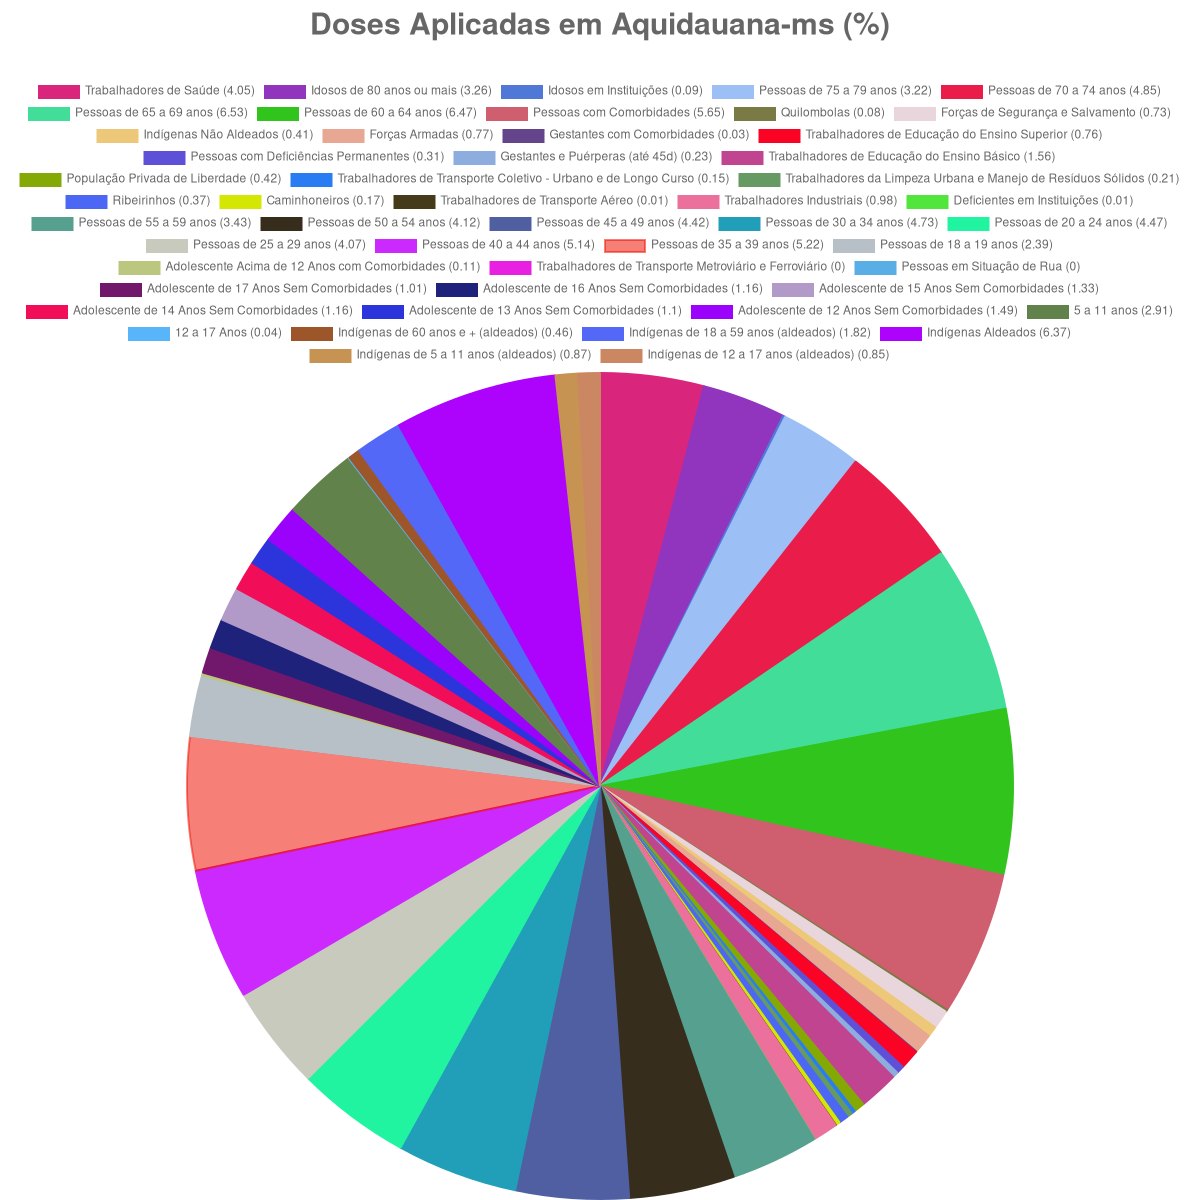
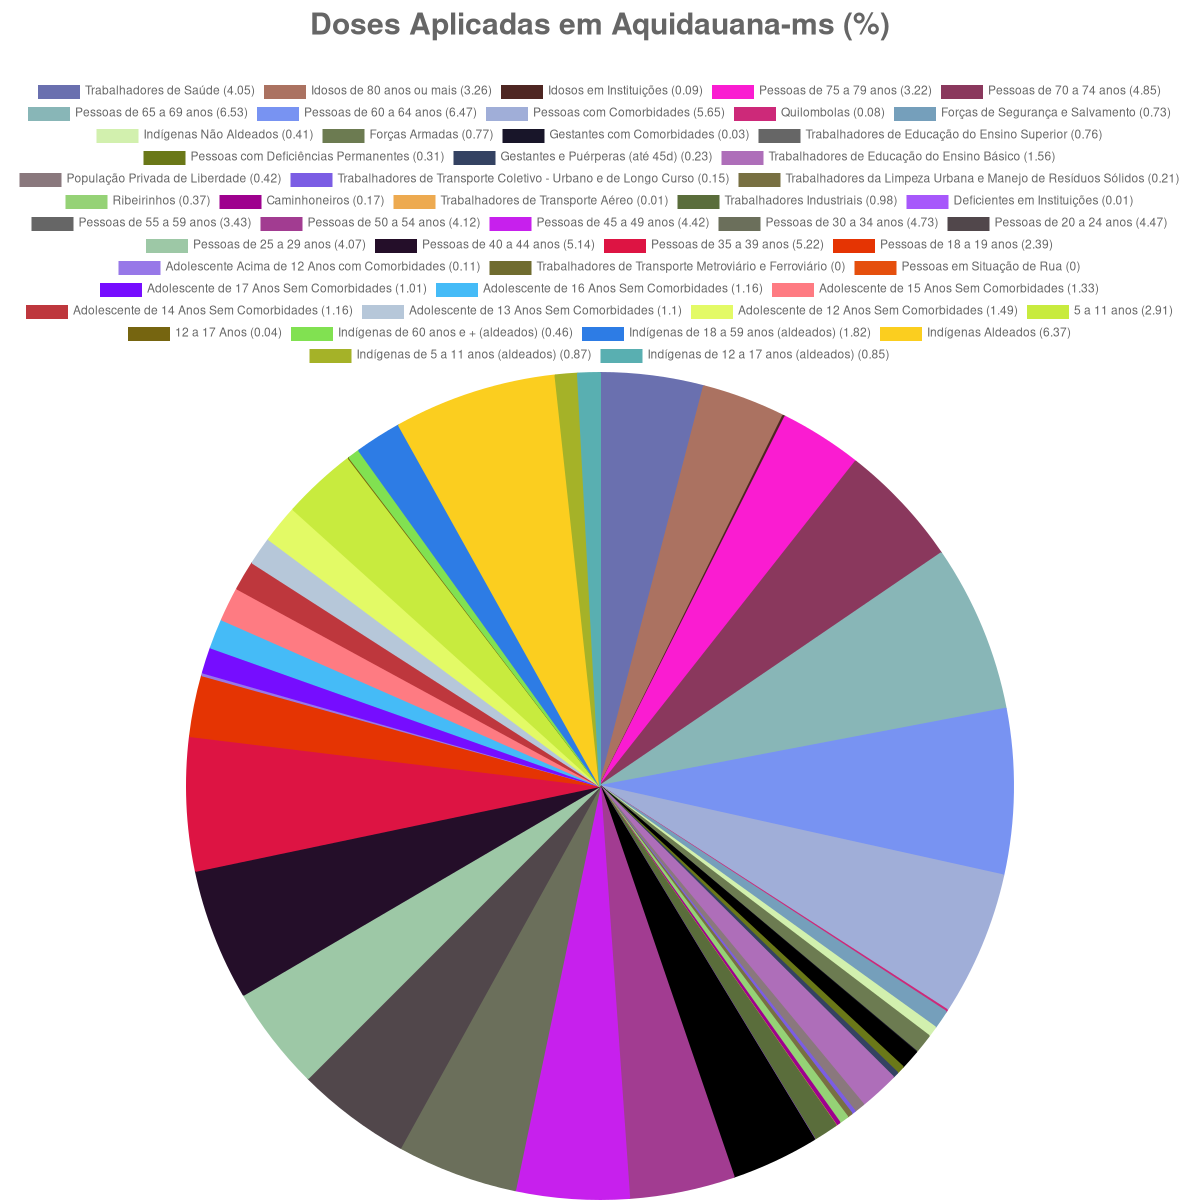
fixing remove comments

diff --git a/src/index.ts b/src/index.ts
@@ -1,6 +1,6 @@
 import generateAppliedDosesChart from "./generateAppliedDosesChart";
 import generateSentDosesChart from "./generateSentDosesChart";
 
-// generateAppliedDosesChart();
+generateAppliedDosesChart();
 
 generateSentDosesChart();
